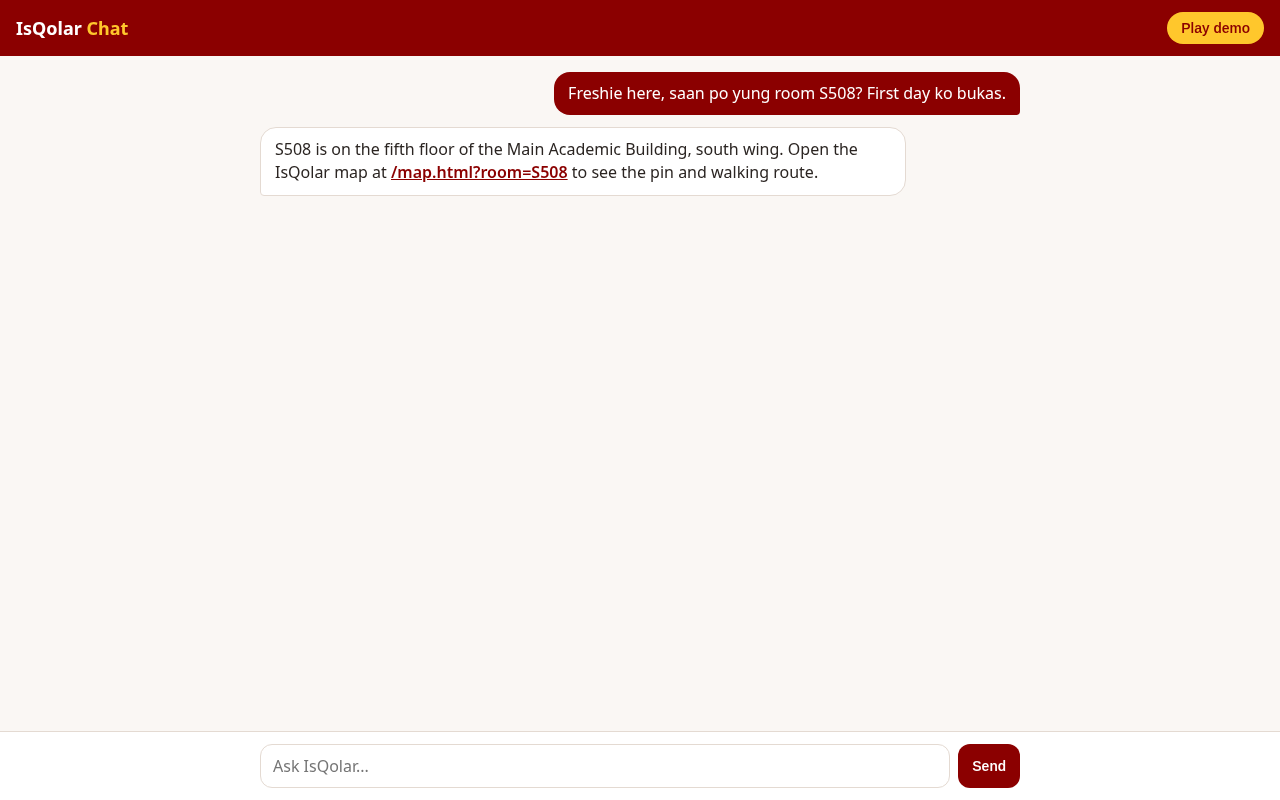
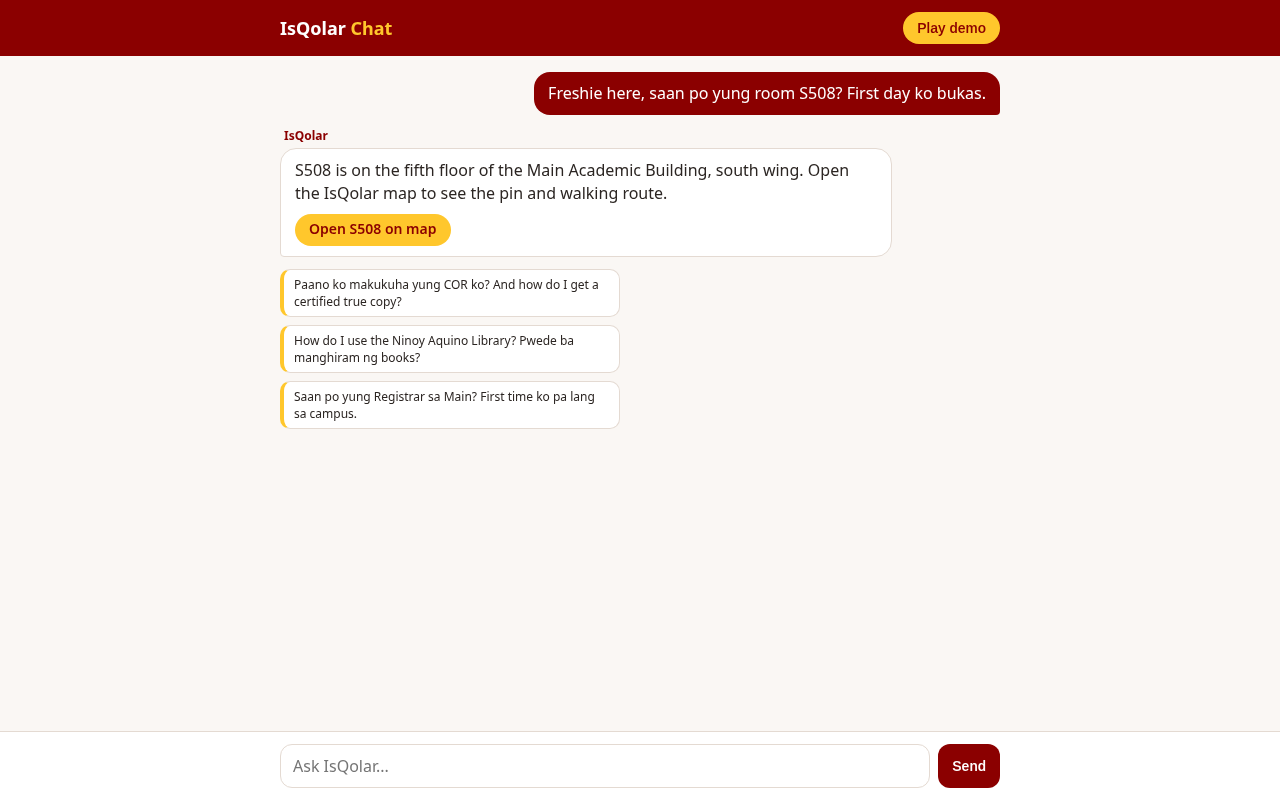
Polish chat page: link chips, name label, typing dots, follow-ups

diff --git a/public/chat.html b/public/chat.html
@@ -9,7 +9,8 @@
   * { box-sizing: border-box; }
   html, body { height: 100%; margin: 0; }
   body { font-family: system-ui, -apple-system, "Segoe UI", Roboto, sans-serif; background: var(--bg); color: var(--ink); display: flex; flex-direction: column; }
-  header { background: var(--maroon); color: #fff; padding: 12px 16px; display: flex; align-items: center; gap: 10px; flex-wrap: wrap; }
+  header { background: var(--maroon); color: #fff; padding: 12px 16px; }
+  .head { max-width: 720px; margin: 0 auto; display: flex; align-items: center; gap: 10px; }
   header h1 { font-size: 18px; margin: 0; flex: 1; }
   header h1 span { color: var(--gold); }
   .btn { border: 0; border-radius: 999px; padding: 8px 14px; font-weight: 600; cursor: pointer; font-size: 14px; }
@@ -17,15 +18,26 @@
   .btn-ghost { background: transparent; color: #fff; border: 1px solid rgba(255,255,255,.6); }
   .btn[hidden], #chips[hidden] { display: none; }
   #log { flex: 1; overflow-y: auto; padding: 16px; }
-  .wrap { max-width: 760px; margin: 0 auto; display: flex; flex-direction: column; gap: 12px; }
+  .wrap { max-width: 720px; margin: 0 auto; display: flex; flex-direction: column; gap: 12px; }
+  #thread.idle { min-height: 100%; justify-content: center; }
+  @media (max-width: 600px) { #thread.idle { justify-content: flex-start; } }
+  .botwrap { align-self: flex-start; max-width: 85%; display: flex; flex-direction: column; gap: 4px; }
+  .botwrap .msg { max-width: 100%; }
+  .name { font-size: 12px; font-weight: 700; color: var(--maroon); padding-left: 4px; }
+  .linkchip { display: inline-flex; align-items: center; height: 32px; padding: 0 14px; margin-top: 8px; border-radius: 999px; background: var(--gold); color: var(--maroon) !important; font-weight: 700; font-size: 14px; text-decoration: none; }
+  .linkchip:hover { filter: brightness(.95); }
+  .dots { display: inline-flex; gap: 4px; padding: 4px 0; }
+  .dots i { width: 7px; height: 7px; border-radius: 50%; background: var(--muted); animation: bounce 1.2s infinite; }
+  .dots i:nth-child(2) { animation-delay: .15s; } .dots i:nth-child(3) { animation-delay: .3s; }
+  @keyframes bounce { 0%, 60%, 100% { opacity: .3; transform: none; } 30% { opacity: 1; transform: translateY(-3px); } }
+  .follow { display: flex; flex-wrap: wrap; gap: 8px; align-self: flex-start; max-width: 85%; }
+  .follow .chip { font-size: 12px; padding: 6px 10px; }
   .msg { max-width: 85%; padding: 10px 14px; border-radius: 16px; line-height: 1.45; white-space: pre-wrap; word-wrap: break-word; }
   .user { align-self: flex-end; background: var(--maroon); color: #fff; border-bottom-right-radius: 4px; }
   .bot { align-self: flex-start; background: #fff; border: 1px solid var(--line); border-bottom-left-radius: 4px; }
   .bot a { color: var(--maroon); font-weight: 600; }
   .err { align-self: center; color: var(--maroon); font-size: 14px; }
-  .typing::after { content: "\2026"; animation: blink 1s infinite; }
-  @keyframes blink { 50% { opacity: .2; } }
-  .hello { text-align: center; color: var(--muted); margin: 24px 0 8px; }
+    .hello { text-align: center; color: var(--muted); margin: 24px 0 8px; }
   .hello b { color: var(--maroon); font-size: 22px; display: block; margin-bottom: 4px; }
   #chips { display: flex; flex-wrap: wrap; gap: 8px; justify-content: center; }
   .chip { background: #fff; border: 1px solid var(--line); border-left: 4px solid var(--gold); border-radius: 10px; padding: 8px 12px; font-size: 13px; cursor: pointer; text-align: left; max-width: 340px; color: var(--ink); font-family: inherit; }
@@ -39,13 +51,13 @@
 </style>
 </head>
 <body>
-<header>
+<header><div class="head">
   <h1>IsQolar <span>Chat</span></h1>
   <button class="btn btn-gold" id="play">Play demo</button>
   <button class="btn btn-ghost" id="pause" hidden>Pause</button>
-  <button class="btn btn-ghost" id="stop" hidden>Stop</button>
-</header>
-<main id="log"><div class="wrap" id="thread">
+  <button class="btn btn-gold" id="stop" hidden>Stop</button>
+</div></header>
+<main id="log"><div class="wrap idle" id="thread">
   <div class="hello" id="hello"><b>Kumusta, Iskolar!</b>Ask about PUP Manila: FAQs, finding a room, or the queue.</div>
   <div id="chips"></div>
 </div></main>
@@ -67,16 +79,55 @@
   let qa = [];
 
   const esc = (s) => s.replace(/[&<>"]/g, (c) => ({ "&": "&amp;", "<": "&lt;", ">": "&gt;", '"': "&quot;" })[c]);
-  const linkify = (s) => esc(s).replace(/(\/(?:map|checkin)\.html(?:\?room=[A-Za-z0-9-]+)?)/g, '<a href="$1">$1</a>');
+  function chipFor(href) {
+    const room = /\?room=([A-Za-z0-9-]+)/.exec(href);
+    const label = room ? "Open " + room[1].toUpperCase() + " on map" : href.startsWith("/checkin") ? "Check in" : "Open map";
+    return '<a class="linkchip" href="' + href + '">' + esc(label) + "</a>";
+  }
+  const linkify = (s) => {
+    const links = [];
+    const text = esc(s).replace(/(?:\s+(?:at|sa|here)\b|:)?\s*(?:https?:\/\/[^\s/]+)?(\/(?:map|checkin)\.html(?:\?room=[A-Za-z0-9-]+)?)/g, (_m, href) => {
+      if (!links.includes(href)) links.push(href);
+      return "";
+    }).replace(/[ \t]+([.,])/g, "$1").trim();
+    return text + (links.length ? "<br>" + links.map(chipFor).join(" ") : "");
+  };
   const scroll = () => { log.scrollTop = log.scrollHeight; };
+  const DOTS = '<span class="dots"><i></i><i></i><i></i></span>';
   function bubble(role, text) {
     const d = document.createElement("div");
     d.className = "msg " + role;
-    if (role === "bot") d.innerHTML = linkify(text); else d.textContent = text;
-    thread.appendChild(d); scroll();
+    if (role === "bot") {
+      const w = document.createElement("div");
+      w.className = "botwrap";
+      w.innerHTML = '<div class="name">IsQolar</div>';
+      w.appendChild(d);
+      d.innerHTML = text ? linkify(text) : DOTS;
+      thread.appendChild(w);
+    } else {
+      d.textContent = text;
+      thread.appendChild(d);
+    }
+    scroll();
     return d;
   }
-  function hideHello() { document.getElementById("hello").hidden = true; chips.hidden = true; }
+  const drop = (el) => (el.parentElement.classList.contains("botwrap") ? el.parentElement : el).remove();
+  function hideHello() { document.getElementById("hello").hidden = true; chips.hidden = true; thread.classList.remove("idle"); }
+  const asked = new Set();
+  function showFollowUps() {
+    thread.querySelectorAll(".follow").forEach((el) => el.remove());
+    const next = qa.filter((q) => !asked.has(q.question)).slice(0, 3);
+    if (!next.length) return;
+    const row = document.createElement("div");
+    row.className = "follow";
+    for (const q of next) {
+      const b = document.createElement("button");
+      b.type = "button"; b.className = "chip"; b.textContent = q.question;
+      b.onclick = () => ask(q.question);
+      row.appendChild(b);
+    }
+    thread.appendChild(row); scroll();
+  }
 
   fetch("/chat/demo-qa.json").then((r) => r.json()).then((list) => {
     qa = list;
@@ -93,20 +144,22 @@
     if (demo.running) return;
     text = text.trim(); if (!text) return;
     hideHello();
+    asked.add(text);
+    thread.querySelectorAll(".follow").forEach((el) => el.remove());
     bubble("user", text);
     history.push({ role: "user", content: text });
     while (history.length > 20) history.shift();
-    const wait = bubble("bot", ""); wait.classList.add("typing");
+    const wait = bubble("bot", "");
     sendBtn.disabled = true;
     try {
       const r = await fetch("/api/chat", { method: "POST", headers: { "Content-Type": "application/json" }, body: JSON.stringify({ messages: history }) });
       const data = await r.json().catch(() => ({}));
-      wait.classList.remove("typing");
-      if (!r.ok) { wait.remove(); history.pop(); bubble("err", data.error || "Something went wrong."); return; }
+      if (!r.ok) { drop(wait); history.pop(); bubble("err", data.error || "Something went wrong."); return; }
       wait.innerHTML = linkify(data.reply);
       history.push({ role: "assistant", content: data.reply });
+      showFollowUps();
     } catch {
-      wait.remove(); history.pop(); bubble("err", "Network error. Try again.");
+      drop(wait); history.pop(); bubble("err", "Network error. Try again.");
     } finally { sendBtn.disabled = false; scroll(); }
   }
 
@@ -141,15 +194,14 @@
   async function runDemo() {
     const token = ++demo.token;
     demo.running = true; demo.paused = false; setDemoUi(); hideHello();
+    thread.querySelectorAll(".follow").forEach((el) => el.remove());
     for (const q of qa) {
-      const u = bubble("user", ""); u.classList.add("typing");
+      const u = bubble("user", "");
       if (!(await playLine("/chat/audio/" + q.id + "-question.mp3", u, q.question, token))) return;
-      u.classList.remove("typing");
       await sleep(400); if (token !== demo.token) return;
-      const b = bubble("bot", ""); b.classList.add("typing");
+      const b = bubble("bot", ""); await sleep(600); if (token !== demo.token) return;
       const answer = q.answer + (q.link ? "\n" + q.link : "");
       if (!(await playLine("/chat/audio/" + q.id + "-answer.mp3", b, answer, token))) return;
-      b.classList.remove("typing");
       await sleep(700); if (token !== demo.token) return;
     }
     stopDemo();
@@ -157,7 +209,7 @@
   function stopDemo() {
     demo.token++; clearInterval(demo.typer);
     if (demo.audio) { demo.audio.pause(); demo.audio = null; }
-    thread.querySelectorAll(".typing").forEach((el) => el.classList.remove("typing"));
+    thread.querySelectorAll(".msg .dots").forEach((d) => drop(d.parentElement));
     demo.running = false; demo.paused = false; setDemoUi();
   }
   playBtn.onclick = runDemo;
